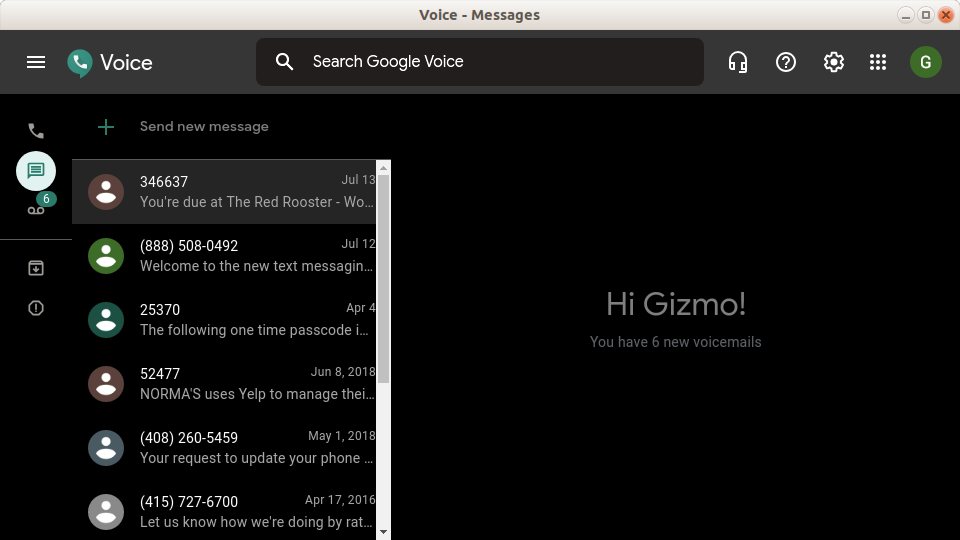
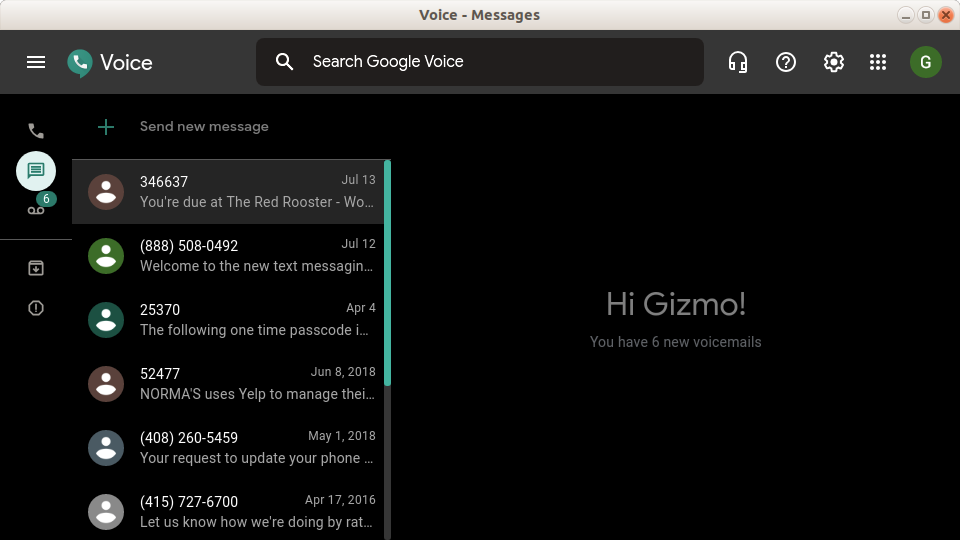
Stylized scrollbars

Changed region(s): [[0.375, 0.2963, 0.4062, 1.0]]

diff --git a/resources/light.js b/resources/light.js
@@ -1,0 +1,45 @@
+// Based on Jared Meadows UserScript from https://userstyles.org/styles/172874
+// Raw JS at https://userstyles.org/styles/userjs/172874/google-voice-dark-theme.user.js
+(function() {var css = [
+        "/*--------------------------------------------------------------",
+        ">>>    CUSTOM",
+        "--------------------------------------------------------------*/",
+        "",
+        "/* Scrollbar width */",
+        "::-webkit-scrollbar {",
+        "   width: 7px;",
+        "}",
+        "/* Scrollbar track */",
+        "::-webkit-scrollbar-track {",
+        "   border-radius: 10px;",
+        "   background: #CCCCCC;",
+        "}",
+        "/* Scrollbar handle */",
+        "::-webkit-scrollbar-thumb {",
+        "   background: #10b2a2;",
+        "   border-radius: 10px;",
+        "}",
+        "/* Scrollbar handle on hover */",
+        "::-webkit-scrollbar-thumb:hover {",
+        "   background: #10e7d0;",
+        "}",
+].join("\n");
+if (typeof GM_addStyle != "undefined") {
+	GM_addStyle(css);
+} else if (typeof PRO_addStyle != "undefined") {
+	PRO_addStyle(css);
+} else if (typeof addStyle != "undefined") {
+	addStyle(css);
+} else {
+	var node = document.createElement("style");
+	node.type = "text/css";
+	node.appendChild(document.createTextNode(css));
+	var heads = document.getElementsByTagName("head");
+	if (heads.length > 0) {
+		heads[0].appendChild(node);
+	} else {
+		// no head yet, stick it whereever
+		document.documentElement.appendChild(node);
+	}
+}
+})();

diff --git a/resources/dark.js b/resources/dark.js
@@ -9,6 +9,24 @@
         " mat-divider {",
         "   border-top-color: rgba(100,100,100,0.87) !important;",
         "}",
+        "/* Scrollbar width */",
+        "::-webkit-scrollbar {",
+        "   width: 7px;",
+        "}",
+        "/* Scrollbar track */",
+        "::-webkit-scrollbar-track {",
+        "   border-radius: 10px;",
+        "   background: #333333;",
+        "}",
+        "/* Scrollbar handle */",
+        "::-webkit-scrollbar-thumb {",
+        "   background: #10b2a2;",
+        "   border-radius: 10px;",
+        "}",
+        "/* Scrollbar handle on hover */",
+        "::-webkit-scrollbar-thumb:hover {",
+        "   background: #10e7d0;",
+        "}",
         "",
 	"/*--------------------------------------------------------------",
 	">>>	TOPBAR",
